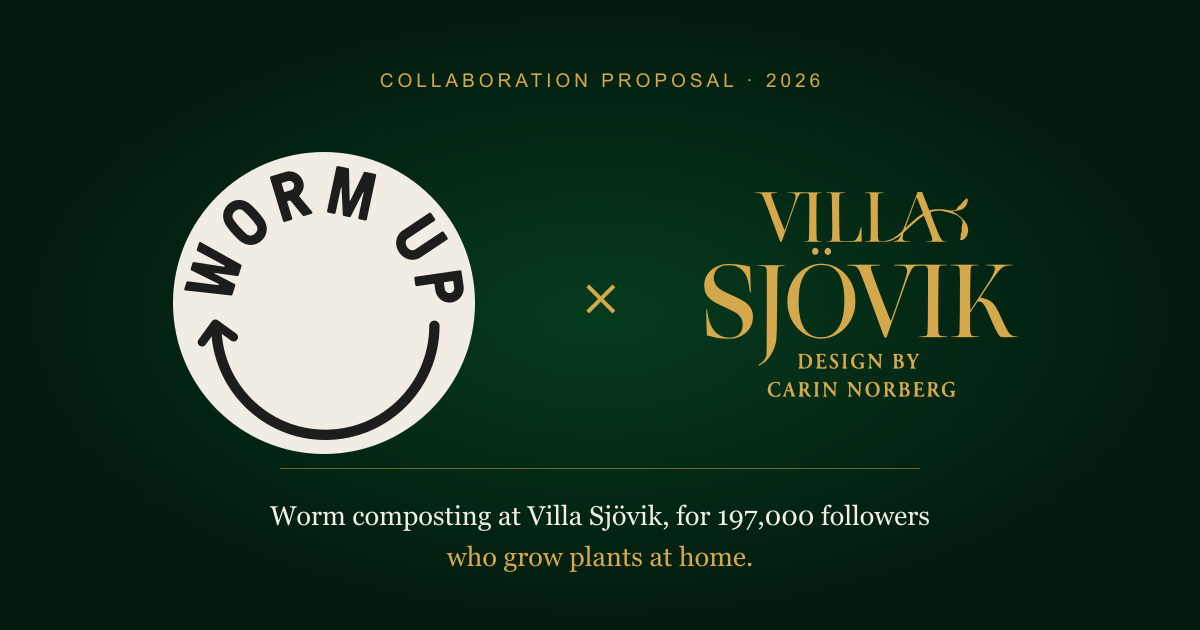
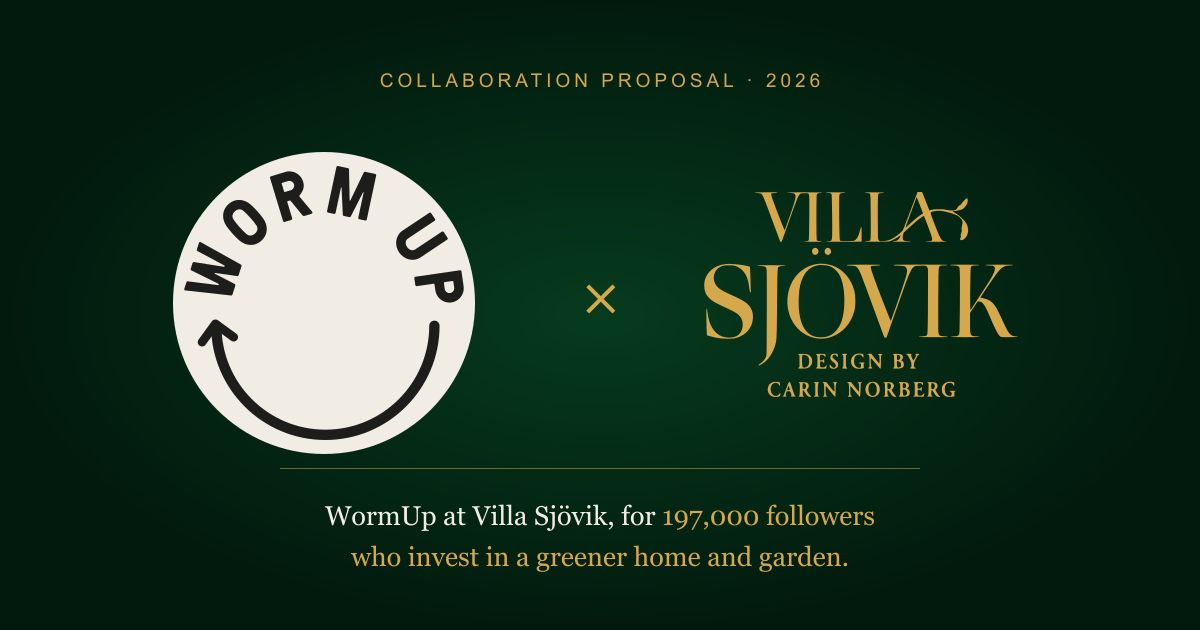
Rättning efter Lucas granskning 2026-10-05: hjälterad, logga utan platta

Changed region(s): [[0.2158, 0.7841, 0.7708, 0.8444], [0.2775, 0.8746, 0.7092, 0.9048]]

diff --git a/index.html b/index.html
@@ -6,7 +6,7 @@
 <title>WormUp × Villa Sjövik</title>
 <link rel="icon" type="image/png" href="./wormup-favicon.png"/>
 <meta property="og:title" content="WormUp × Villa Sjövik — Collaboration proposal 2026"/>
-<meta property="og:description" content="Worm composting at Villa Sjövik, for 197,000 followers who grow plants at home."/>
+<meta property="og:description" content="WormUp at Villa Sjövik, for 197,000 followers who invest in a greener home and garden."/>
 <meta property="og:image" content="https://villasjovik.github.io/wormup/og-image.png"/>
 <meta property="og:image:width" content="1200"/>
 <meta property="og:image:height" content="630"/>
@@ -15,7 +15,7 @@
 <meta property="og:type" content="website"/>
 <meta name="twitter:card" content="summary_large_image"/>
 <meta name="twitter:title" content="WormUp × Villa Sjövik — Collaboration proposal 2026"/>
-<meta name="twitter:description" content="Worm composting at Villa Sjövik, for 197,000 followers who grow plants at home."/>
+<meta name="twitter:description" content="WormUp at Villa Sjövik, for 197,000 followers who invest in a greener home and garden."/>
 <meta name="twitter:image" content="https://villasjovik.github.io/wormup/og-image.png"/>
 <link rel="preconnect" href="https://fonts.googleapis.com"/>
 <link rel="preconnect" href="https://fonts.gstatic.com" crossorigin/>
@@ -203,10 +203,6 @@ background-image:radial-gradient(circle,rgba(212,168,75,.05) 1px,transparent 1px
 .h-side{flex:1;display:flex;min-width:0}
 .h-side-l{justify-content:flex-end;padding-right:8px}
 .h-side-r{justify-content:flex-start;padding-left:8px}
-.h-lockup::after{content:'';position:absolute;width:500px;height:130px;left:50%;top:50%;transform:translate(-50%,-50%);
-border-radius:50%;background:radial-gradient(ellipse,rgba(212,168,75,.09),transparent 70%);
-pointer-events:none;animation:haloPulse 4s ease-in-out infinite}
-@keyframes haloPulse{0%,100%{opacity:.5;transform:translate(-50%,-50%) scale(1)}50%{opacity:1;transform:translate(-50%,-50%) scale(1.1)}}
 .h-tag-p{display:flex;flex-direction:column;align-items:center;will-change:transform}
 .h-tagline{font-family:'Playfair Display',serif;font-size:clamp(24px,3.8vw,48px);font-weight:400;line-height:1.2;
 max-width:760px;margin-bottom:56px;text-wrap:pretty}
@@ -1289,7 +1285,7 @@ position:relative;overflow:hidden;transition:color .35s}
   *{cursor:auto!important}
   .sp-c:hover,.price-box:hover,.lc:hover,.gc:hover{transform:none!important}
 }
-/* WormUp: original mark on a rounded 3D plate; preserve fallback colours. */
+/* WormUp: original transparent mark, extruded without a plate; preserve fallback colours. */
 .hero-logo-brand .logo-flat{filter:none}
 </style>
 </head>
@@ -1317,20 +1313,20 @@ position:relative;overflow:hidden;transition:color .35s}
     <div class="h-lockup">
       <div class="h-side h-side-l">
         <div class="logo-3d hero-logo-brand"
-             data-svg="./wormup-plate.svg"
-             data-fallback="./wormup-plate.svg"
+             data-svg="./wormup.svg"
+             data-fallback="./wormup.svg"
              data-use-svg-color="true"
-             data-layer-gap="4"
-             data-tone="neutral" data-exposure="1.0"
+             data-layer-gap="0.5"
+             data-tone="neutral" data-exposure="2.0"
              data-material="metal" data-color="#1d1d1b" data-motion="float-spin"
              data-rotate-speed="0.3"
-             data-bevel-depth="14"
+             data-bevel-depth="100"
              data-sparks="true"
              data-shadow="true"
              data-delay="0"
              data-nudge-x="-12"
              style="width:42vw;height:26vw;max-width:500px;max-height:330px">
-          <img loading="lazy" decoding="async" class="logo-flat" src="./wormup-plate.svg" alt="" aria-hidden="true"/>
+          <img loading="lazy" decoding="async" class="logo-flat" src="./wormup.svg" alt="" aria-hidden="true"/>
         </div>
       </div>
       <span class="h-x">x</span>
@@ -1351,7 +1347,7 @@ position:relative;overflow:hidden;transition:color .35s}
       </div>
     </div>
     <div class="h-tag-p" data-par="5,4">
-    <h1 class="h-tagline">Worm composting at Villa Sjövik, for <em>197,000 followers</em> who grow plants at home.</h1>
+    <h1 class="h-tagline">WormUp at Villa Sjövik, for <em>197,000 followers</em> who invest in a greener home and garden.</h1>
     </div>
     <div class="h-scroll" aria-hidden="true">
       <span>Explore</span>
